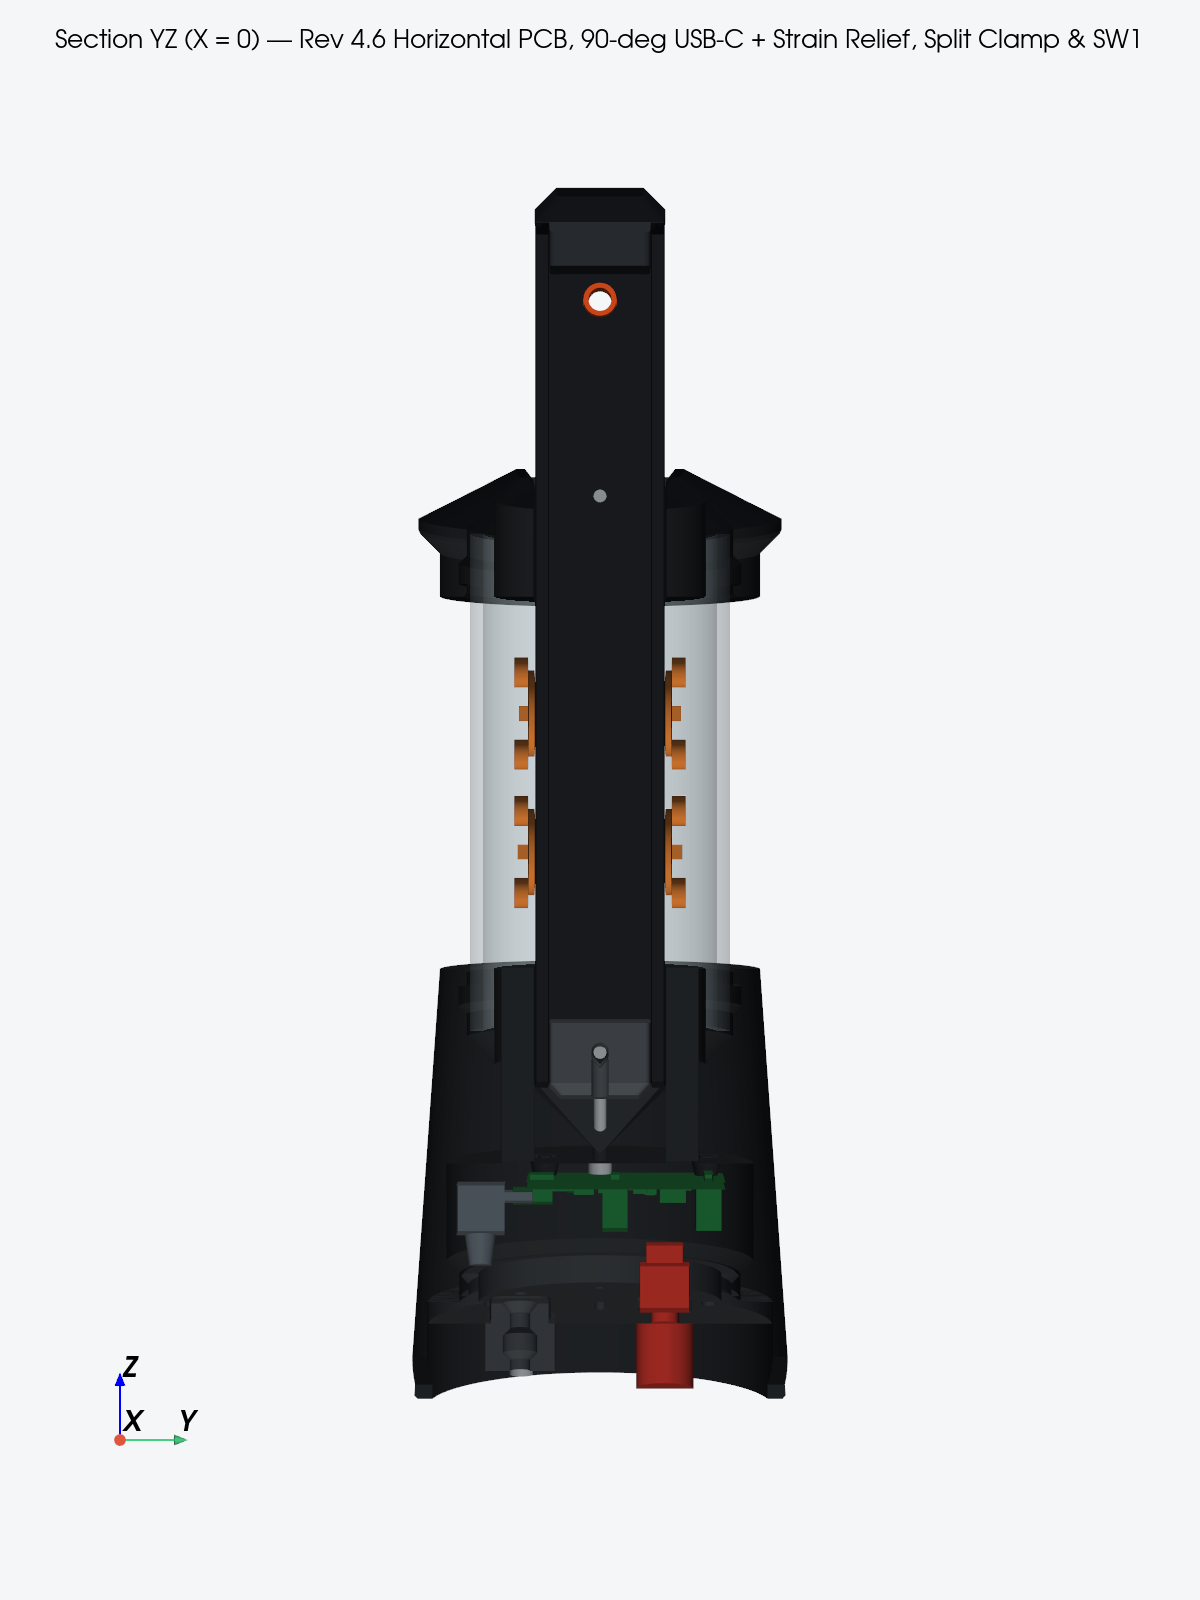
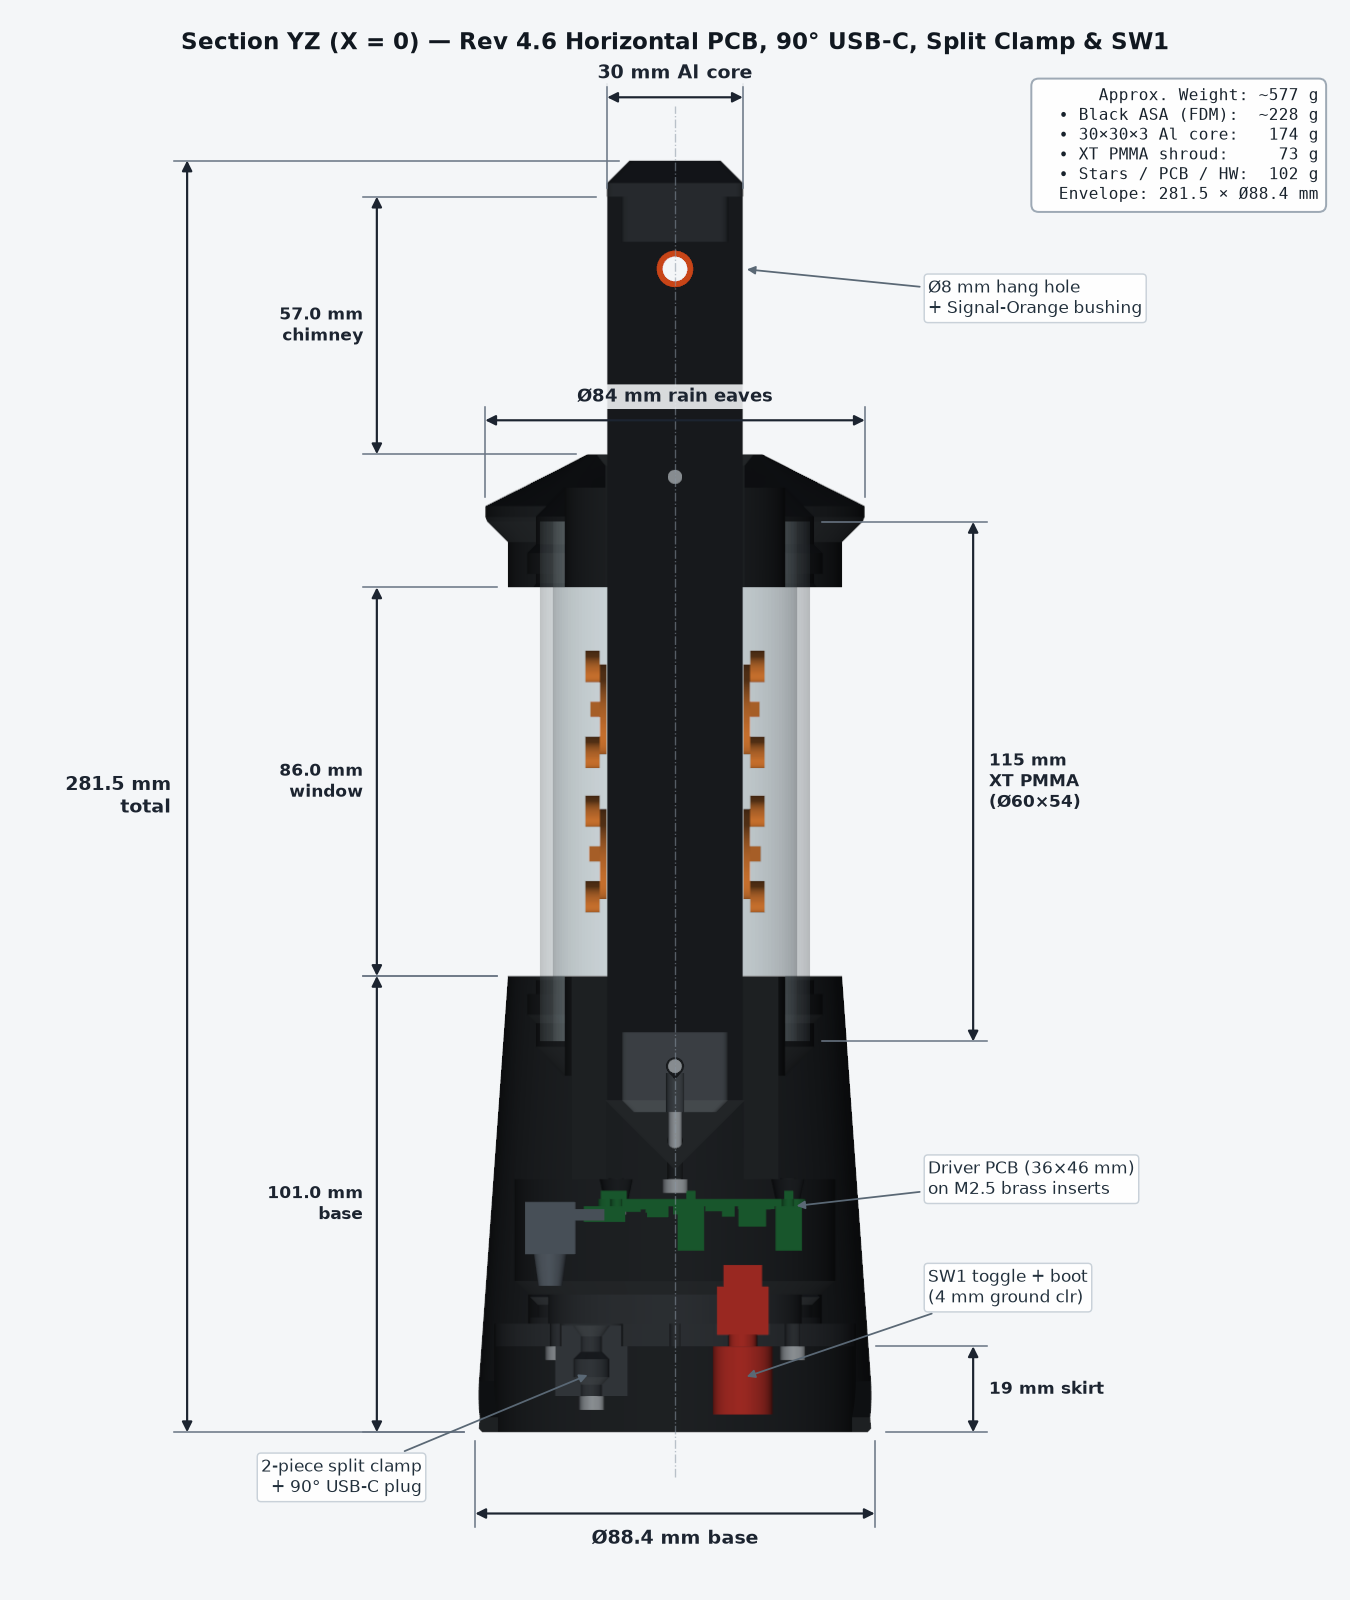
Add orthographic mm dimensions and weight breakdown to section views

diff --git a/mechanical_design/cad/render_cad.py b/mechanical_design/cad/render_cad.py
@@ -2,13 +2,22 @@
 """
 Headless PyVista 3D CAD Renderer for LepiLED DIY Maxi Switch (Rev 4.6 — "Field Lantern":
 Matte-Black ASA + Matte-Black Al Chimney + Warm Copper Stars + Signal-Orange Hang-Hole Touchpoint).
+Renders true orthographic cross-sections with exact parametric mm dimensions & approximate mass badges.
 Must be run under `xvfb-run -a /home/alimuldal/.local/share/lepiled-cad-venv/bin/python render_cad.py`.
 """
 
 from __future__ import annotations
 
+import json
 from pathlib import Path
+
+import matplotlib
+matplotlib.use("Agg")
+import matplotlib.pyplot as plt
+import numpy as np
 import pyvista as pv
+
+from params import LepiLEDParams
 
 
 # Intentional Field-Instrument CMF palette (Matte Charcoal/Black ASA + Matte-Black Chimney + Copper Stars + Signal Orange)
@@ -48,9 +57,87 @@ def render_assembly_iso(parts: dict[str, pv.PolyData], out_path: Path) -> None:
     pl.close()
 
 
-def render_section(parts: dict[str, pv.PolyData], bounds: tuple[float, float, float, float, float, float],
-                   title: str, cam_pos: list, out_path: Path) -> None:
-    pl = pv.Plotter(off_screen=True, window_size=(1200, 1600))
+def _draw_vdim(ax: plt.Axes, x_dim: float, z0: float, z1: float, label: str,
+               x_ref0: float | None = None, x_ref1: float | None = None,
+               color: str = "#1c2430", fontsize: float = 9.0, text_dx: float = -3.5, ha: str = "right") -> None:
+    """Draw a clean vertical engineering dimension with extension lines and double-headed arrow."""
+    ext_color = "#6b7785"
+    if x_ref0 is not None:
+        gap = 2.5 if x_dim < x_ref0 else -2.5
+        ov = -3.0 if x_dim < x_ref0 else 3.0
+        ax.plot([x_ref0 - gap, x_dim + ov], [z0, z0], color=ext_color, lw=0.75, ls="-")
+    if x_ref1 is not None:
+        gap = 2.5 if x_dim < x_ref1 else -2.5
+        ov = -3.0 if x_dim < x_ref1 else 3.0
+        ax.plot([x_ref1 - gap, x_dim + ov], [z1, z1], color=ext_color, lw=0.75, ls="-")
+    ax.annotate(
+        "", xy=(x_dim, z1), xytext=(x_dim, z0),
+        arrowprops=dict(arrowstyle="<|-|>", color=color, lw=1.05, mutation_scale=10, shrinkA=0, shrinkB=0),
+    )
+    ax.text(
+        x_dim + text_dx, 0.5 * (z0 + z1), label,
+        color=color, fontsize=fontsize, fontweight="bold", ha=ha, va="center",
+        bbox=dict(boxstyle="round,pad=0.18", fc="#f4f6f8", ec="none", alpha=0.88),
+    )
+
+
+def _draw_hdim(ax: plt.Axes, z_dim: float, x0: float, x1: float, label: str,
+               z_ref0: float | None = None, z_ref1: float | None = None,
+               color: str = "#1c2430", fontsize: float = 9.0, text_dz: float = -4.0, va: str = "top") -> None:
+    """Draw a clean horizontal engineering dimension with extension lines and double-headed arrow."""
+    ext_color = "#6b7785"
+    if z_ref0 is not None:
+        gap = 2.0 if z_dim < z_ref0 else -2.0
+        ov = -3.0 if z_dim < z_ref0 else 3.0
+        ax.plot([x0, x0], [z_ref0 - gap, z_dim + ov], color=ext_color, lw=0.75, ls="-")
+    if z_ref1 is not None:
+        gap = 2.0 if z_dim < z_ref1 else -2.0
+        ov = -3.0 if z_dim < z_ref1 else 3.0
+        ax.plot([x1, x1], [z_ref1 - gap, z_dim + ov], color=ext_color, lw=0.75, ls="-")
+    ax.annotate(
+        "", xy=(x1, z_dim), xytext=(x0, z_dim),
+        arrowprops=dict(arrowstyle="<|-|>", color=color, lw=1.05, mutation_scale=10, shrinkA=0, shrinkB=0),
+    )
+    ax.text(
+        0.5 * (x0 + x1), z_dim + text_dz, label,
+        color=color, fontsize=fontsize, fontweight="bold", ha="center", va=va,
+        bbox=dict(boxstyle="round,pad=0.18", fc="#f4f6f8", ec="none", alpha=0.88),
+    )
+
+
+def _draw_callout(ax: plt.Axes, xy_target: tuple[float, float], xy_text: tuple[float, float],
+                  label: str, ha: str = "left", color: str = "#22303c") -> None:
+    """Draw a subtle leader-line annotation callout."""
+    ax.annotate(
+        label,
+        xy=xy_target,
+        xytext=xy_text,
+        ha=ha,
+        va="center",
+        fontsize=8.2,
+        color=color,
+        bbox=dict(boxstyle="round,pad=0.22", fc="white", ec="#c5ced6", lw=0.7, alpha=0.92),
+        arrowprops=dict(arrowstyle="-|>", color="#5a6875", lw=0.85, mutation_scale=8, shrinkA=2, shrinkB=2),
+    )
+
+
+def render_section_annotated(
+    parts: dict[str, pv.PolyData],
+    p: LepiLEDParams,
+    mass: dict[str, float],
+    bounds: tuple[float, float, float, float, float, float],
+    title: str,
+    cam_pos: list,
+    plane: str,
+    out_path: Path,
+) -> None:
+    """Render an exact parallel-projection orthographic section and overlay true-to-scale mm dimensions & weight."""
+    win_w, win_h = 1350, 1600
+    z_center = 140.0
+    par_scale = 176.0  # Exact world mm half-height -> Z ∈ [-36, +316] mm!
+    half_x = par_scale * (win_w / win_h)  # 148.5 mm -> X/Y ∈ [-148.5, +148.5] mm!
+
+    pl = pv.Plotter(off_screen=True, window_size=(win_w, win_h))
     pl.set_background("#f4f6f8")
     for k, mesh in parts.items():
         st = PART_STYLES[k]
@@ -59,10 +146,88 @@ def render_section(parts: dict[str, pv.PolyData], bounds: tuple[float, float, fl
             op = 0.32 if k == "glass_tube" else 1.0
             pl.add_mesh(clipped, color=st["color"], opacity=op, smooth_shading=False, show_edges=False)
     pl.camera_position = cam_pos
-    pl.add_title(title, font_size=10, color="black")
-    pl.add_axes()
-    pl.screenshot(str(out_path))
+    pl.enable_parallel_projection()
+    pl.camera.parallel_scale = par_scale
+    img = pl.screenshot(return_img=True)
     pl.close()
+
+    fig, ax = plt.subplots(figsize=(9.0, 10.67), dpi=150)
+    fig.patch.set_facecolor("#f4f6f8")
+    ax.set_facecolor("#f4f6f8")
+    ax.imshow(img, extent=[-half_x, half_x, z_center - par_scale, z_center + par_scale], aspect="equal")
+    ax.set_xlim(-half_x, half_x)
+    ax.set_ylim(z_center - par_scale, z_center + par_scale)
+    ax.axis("off")
+
+    # Subtle vertical centerline
+    ax.plot([0.0, 0.0], [-10.0, p.z_plug_top_end + 12.0], color="#8a96a3", lw=0.65, ls="-.", alpha=0.55)
+
+    # Title banner
+    ax.text(
+        0.0, z_center + par_scale - 6.0, title,
+        ha="center", va="top", fontsize=11.0, fontweight="bold", color="#111820",
+    )
+
+    # Shared key outer dimensions (true orthographic mm!)
+    r_base = 0.5 * p.cap_bot_base_od        # 44.2
+    r_col = 0.5 * p.cap_bot_collar_od       # 37.0
+    r_brim = 0.5 * p.cap_top_brim_od        # 42.0
+    r_shroud = 0.5 * p.glass_od_nom         # 30.0
+    r_core = 0.5 * p.core_w_nom             # 15.0
+
+    # Left outer total height dimension (281.5 mm)
+    _draw_vdim(ax, -108.0, 0.0, p.total_height_mm, f"{p.total_height_mm:.1f} mm\ntotal", x_ref0=-r_base, x_ref1=-10.0, text_dx=-3.5, ha="right")
+
+    # Bottom base OD & top eaves OD
+    _draw_hdim(ax, -18.0, -r_base, r_base, f"Ø{p.cap_bot_base_od:.1f} mm base", z_ref0=0.0, z_ref1=0.0, text_dz=-3.5, va="top")
+    _draw_hdim(ax, p.z_plug_top_end + 14.0, -r_core, r_core, f"{p.core_w_nom:.0f} mm Al core", z_ref0=p.z_core_top, z_ref1=p.z_core_top, text_dz=3.2, va="bottom")
+
+    if plane == "YZ":
+        # Inner-left vertical breakdown: Base (101.0), Optical Window (86.0), Chimney (57.0)
+        _draw_vdim(ax, -66.0, 0.0, p.z_cap_bot_top, f"{p.z_cap_bot_top:.1f} mm\nbase", x_ref0=-r_base, x_ref1=-r_col, text_dx=-3.0, ha="right", fontsize=8.4)
+        _draw_vdim(ax, -66.0, p.z_cap_bot_top, p.z_cap_top_bot, f"{p.exposed_glass_window:.1f} mm\nwindow", x_ref0=-r_col, x_ref1=-r_col, text_dx=-3.0, ha="right", fontsize=8.4)
+        _draw_vdim(ax, -66.0, p.z_cap_top_top, p.z_core_top, f"{p.core_protrusion_mm:.1f} mm\nchimney", x_ref0=-19.4, x_ref1=-r_core, text_dx=-3.0, ha="right", fontsize=8.4)
+
+        # Right side horizontal diameters & key internal callouts
+        _draw_hdim(ax, 224.0, -r_brim, r_brim, f"Ø{p.cap_top_brim_od:.0f} mm rain eaves", z_ref0=205.0, z_ref1=205.0, text_dz=3.2, va="bottom", fontsize=8.5)
+        _draw_vdim(ax, 66.0, p.z_glass_bot, p.z_glass_top, f"{p.glass_length:.0f} mm\nXT PMMA\n(Ø{p.glass_od_nom:.0f}×{p.glass_id_nom:.0f})", x_ref0=r_shroud, x_ref1=r_shroud, text_dx=3.5, ha="left", fontsize=8.3)
+        _draw_vdim(ax, 66.0, 0.0, p.z_lid_bot_start, f"{p.z_lid_bot_start:.0f} mm skirt", x_ref0=r_base, x_ref1=42.0, text_dx=3.5, ha="left", fontsize=8.3)
+
+        _draw_callout(ax, (15.0, p.z_hang_hole), (56.0, 251.0), "Ø8 mm hang hole\n+ Signal-Orange bushing")
+        _draw_callout(ax, (26.0, p.pcb_z_fcu), (56.0, 56.0), "Driver PCB (36×46 mm)\non M2.5 brass inserts")
+        _draw_callout(ax, (15.0, 12.0), (56.0, 32.0), "SW1 toggle + boot\n(4 mm ground clr)")
+        _draw_callout(ax, (-18.5, 13.0), (-56.0, -10.0), "2-piece split clamp\n+ 90° USB-C plug", ha="right")
+    else:
+        # XZ plane: show Al core 200 mm length, 32 mm LED star pitch, solid hub & anchor/lock screws
+        _draw_vdim(ax, -66.0, p.z_core_bot, p.z_core_top, f"{p.core_length:.0f} mm\nstock Al tube", x_ref0=-r_core, x_ref1=-r_core, text_dx=-3.0, ha="right", fontsize=8.5)
+        _draw_vdim(ax, 66.0, p.z_led_vis, p.z_led_uv, f"{p.axial_uv_to_vis_mm:.0f} mm\nstar pitch", x_ref0=20.0, x_ref1=20.0, text_dx=3.5, ha="left", fontsize=8.5)
+        _draw_hdim(ax, 224.0, -r_brim, r_brim, f"Ø{p.cap_top_brim_od:.0f} mm eaves / Ø{p.cap_top_skirt_od:.0f} mm collar", z_ref0=205.0, z_ref1=205.0, text_dz=3.2, va="bottom", fontsize=8.4)
+
+        _draw_callout(ax, (15.0, p.z_hang_hole), (56.0, 251.0), "Ø8 mm hang hole\n+ 8 mm finial cap")
+        _draw_callout(ax, (22.0, p.z_cap_top_lock), (56.0, 204.0), "2× M3×10 top lock\n(4.6 mm solid shoulder)")
+        _draw_callout(ax, (18.0, 160.0), (56.0, 174.0), "8× 20 mm Cu DTP stars\n(4 UV + 4 Vis)")
+        _draw_callout(ax, (26.5, 94.0), (56.0, 96.0), "Solid R=24.4 mm hub\n+ 60×3.5 VMQ50 O-ring")
+        _draw_callout(ax, (6.5, 62.0), (56.0, 62.0), "2× M3×16 dry-bay\ncore anchor (0 side holes)")
+        _draw_callout(ax, (16.0, 32.0), (56.0, 30.0), "29.8 mm D12 lightpipe\n(45° side-visible tip)")
+
+    # Crisp specification & approximate weight card (top-right corner)
+    mass_text = (
+        f"Approx. Weight: ~{mass['total_fdm_g']:.0f} g\n"
+        f"  • Black ASA (FDM):  ~{mass['asa_fdm_62pct_g']:.0f} g\n"
+        f"  • 30×30×3 Al core:   {mass['al_core_3mm_g']:.0f} g\n"
+        f"  • XT PMMA shroud:     {mass['uvt_pmma_shroud_g']:.0f} g\n"
+        f"  • Stars / PCB / HW:  {mass['elec_stars_hardware_g']:.0f} g\n"
+        f"Envelope: {p.total_height_mm:.1f} × Ø{p.cap_bot_base_od:.1f} mm"
+    )
+    ax.text(
+        half_x - 6.0, z_center + par_scale - 18.0, mass_text,
+        ha="right", va="top", fontsize=7.9, family="monospace", color="#18222c",
+        bbox=dict(boxstyle="round,pad=0.45", fc="white", ec="#9aa6b2", lw=0.95, alpha=0.96),
+    )
+
+    fig.tight_layout(pad=0.2)
+    fig.savefig(str(out_path), dpi=150, facecolor="#f4f6f8")
+    plt.close(fig)
 
 
 def render_cap_detail(stl_path: Path, title: str, z_mid: float, out_path: Path, color: str = "#383e47") -> None:
@@ -86,27 +251,32 @@ def render_cap_detail(stl_path: Path, title: str, z_mid: float, out_path: Path, 
 
 def main() -> None:
     cad_dir = Path(__file__).resolve().parent
+    p = LepiLEDParams(process="FDM")
+    verif = json.loads((cad_dir / "cad_verification.json").read_text(encoding="utf-8"))
+    mass = verif["mass_budget_g"]
     parts = load_parts(cad_dir / "parts_stl")
 
     render_assembly_iso(parts, cad_dir / "assembly_iso.png")
-    render_section(
-        parts,
+    render_section_annotated(
+        parts, p, mass,
         bounds=(-100, 100, 0, 100, -10, 290),
-        title="Section XZ (Y = 0) — Rev 4.6 Intact R=24.4 Hubs, Dry-Bay Core Anchor & Lofted Roof",
+        title="Section XZ (Y = 0) — Rev 4.6 Solid Hubs, Dry-Bay Core Anchor & Lofted Roof",
         cam_pos=[(0, -690, 140), (0, 0, 140), (0, 0, 1)],
+        plane="XZ",
         out_path=cad_dir / "assembly_section_xz.png",
     )
-    render_section(
-        parts,
+    render_section_annotated(
+        parts, p, mass,
         bounds=(-100, 0, -100, 100, -10, 290),
-        title="Section YZ (X = 0) — Rev 4.6 Horizontal PCB, 90-deg USB-C + Strain Relief, Split Clamp & SW1",
+        title="Section YZ (X = 0) — Rev 4.6 Horizontal PCB, 90° USB-C, Split Clamp & SW1",
         cam_pos=[(690, 0, 140), (0, 0, 140), (0, 0, 1)],
+        plane="YZ",
         out_path=cad_dir / "assembly_section_yz.png",
     )
-    render_cap_detail(cad_dir / "mech_lid_bot.stl", "MECH-LID-BOT (Recessed Ø78.6 + Split Port + Recessed Vent + D12)", 24.0, cad_dir / "lid_bot_detail.png")
+    render_cap_detail(cad_dir / "mech_lid_bot.stl", "MECH-LID-BOT (Recessed Ø79.4 + Split Port + Interior Vent + D12)", 24.0, cad_dir / "lid_bot_detail.png")
     render_cap_detail(cad_dir / "mech_cap_bot.stl", "MECH-CAP-BOT (Unified Tapered Frustum + Intact Core Hub + M2.5 Standoffs)", 50.0, cad_dir / "cap_bot_detail.png")
     render_cap_detail(cad_dir / "mech_cap_top.stl", "MECH-CAP-TOP (Lofted Square-to-Round Roof + Solid R=24.4 Hub)", 202.0, cad_dir / "cap_top_detail.png")
-    print("Rendered all 6 Rev 4.6 CAD PNGs cleanly.")
+    print("Rendered all 6 Rev 4.6 CAD PNGs with orthographic dimensions & weight badges cleanly.")
 
 
 if __name__ == "__main__":
